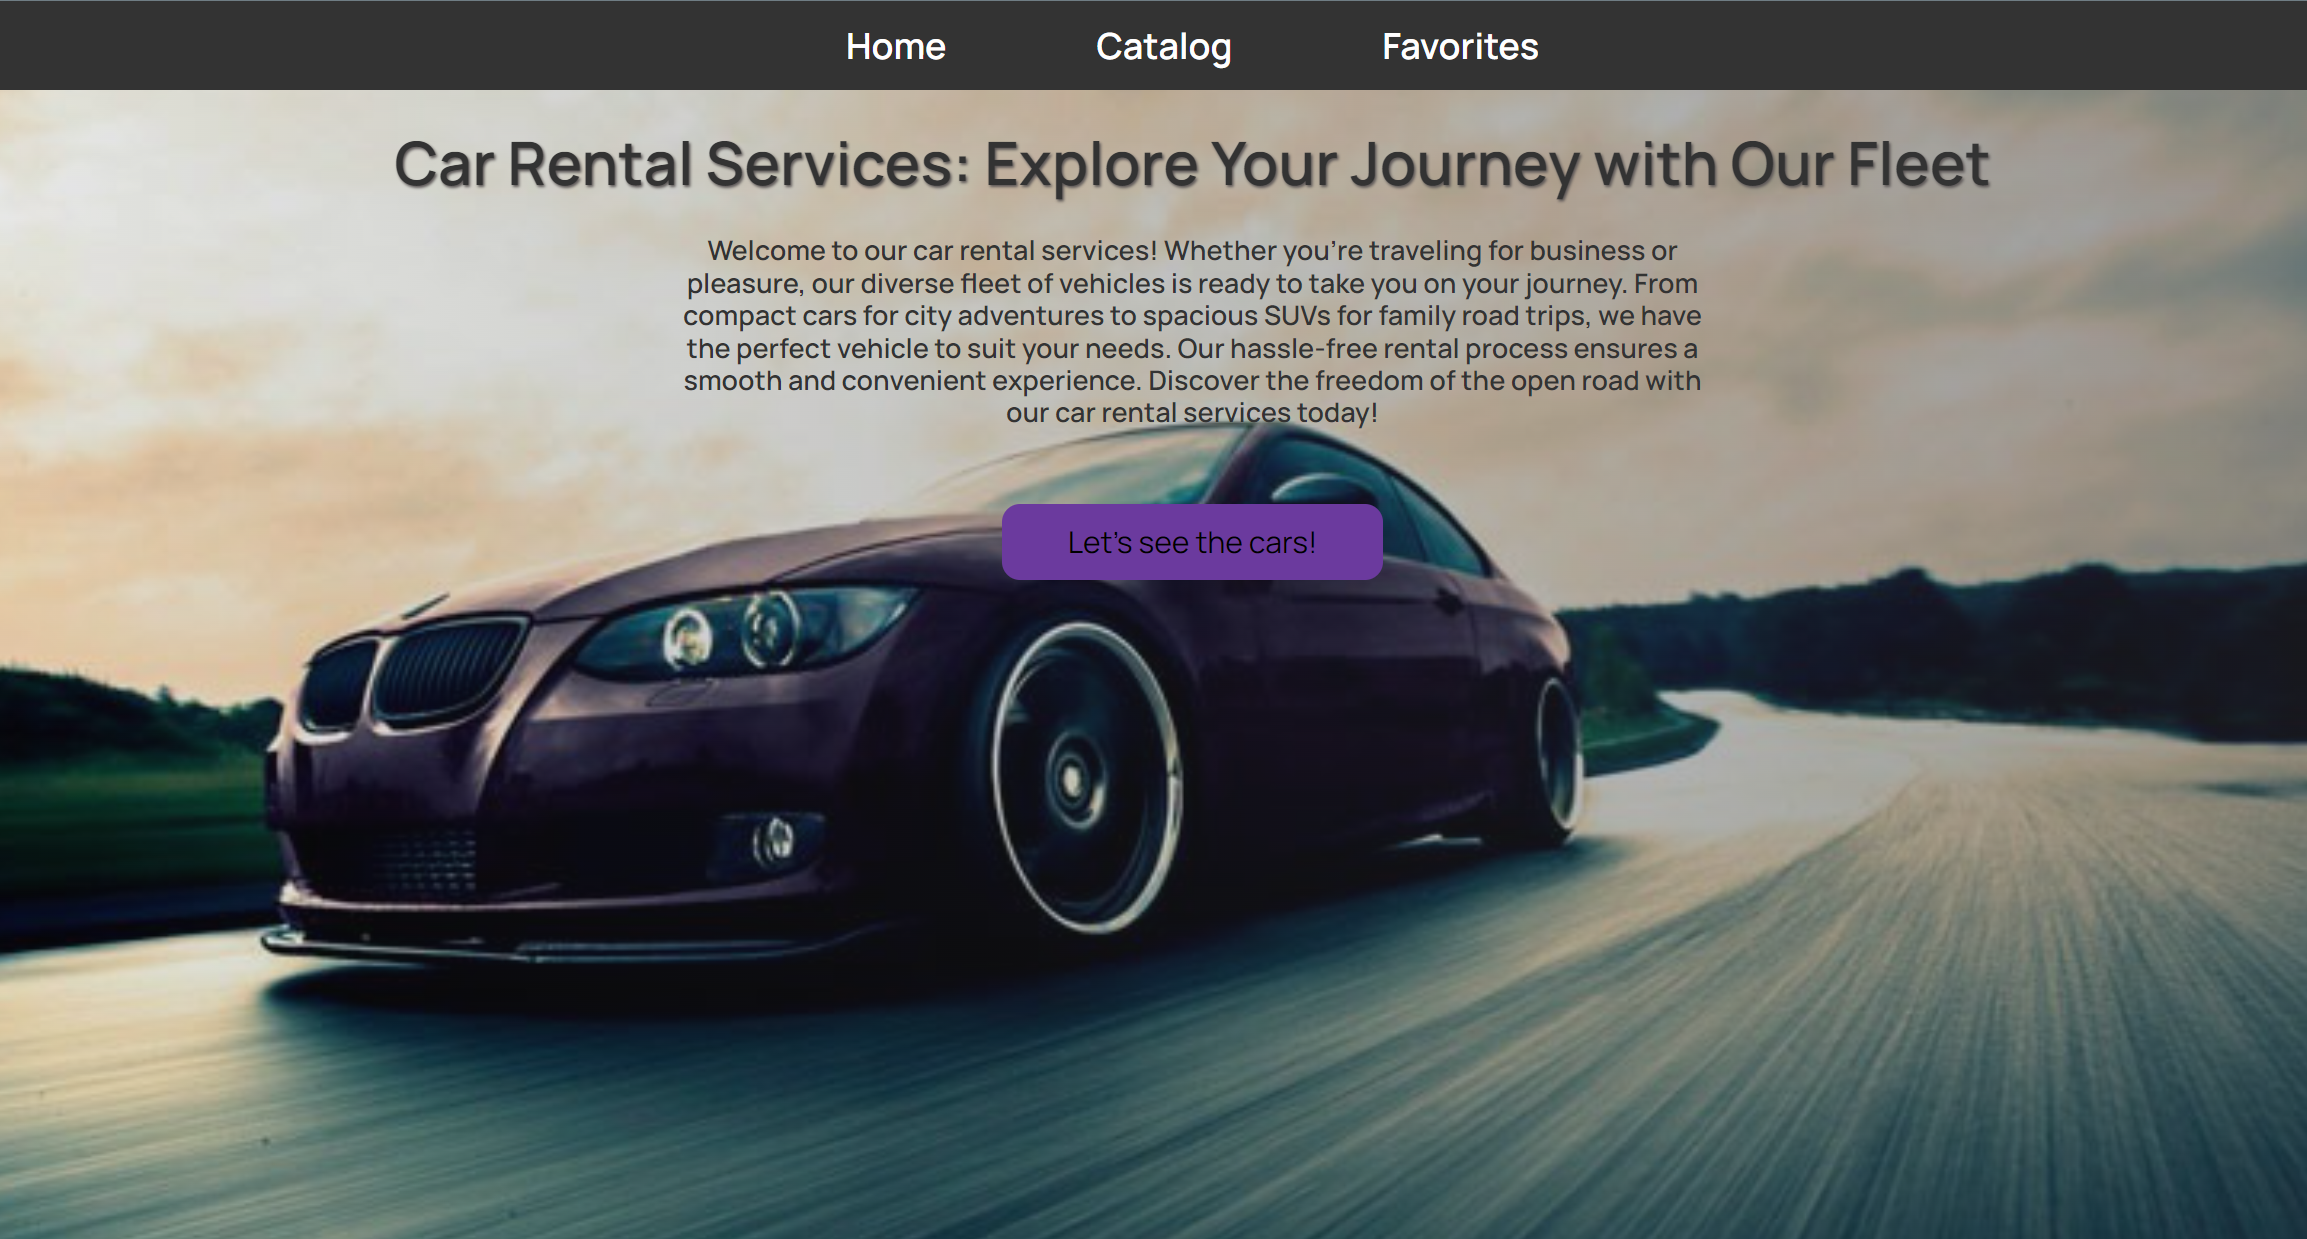
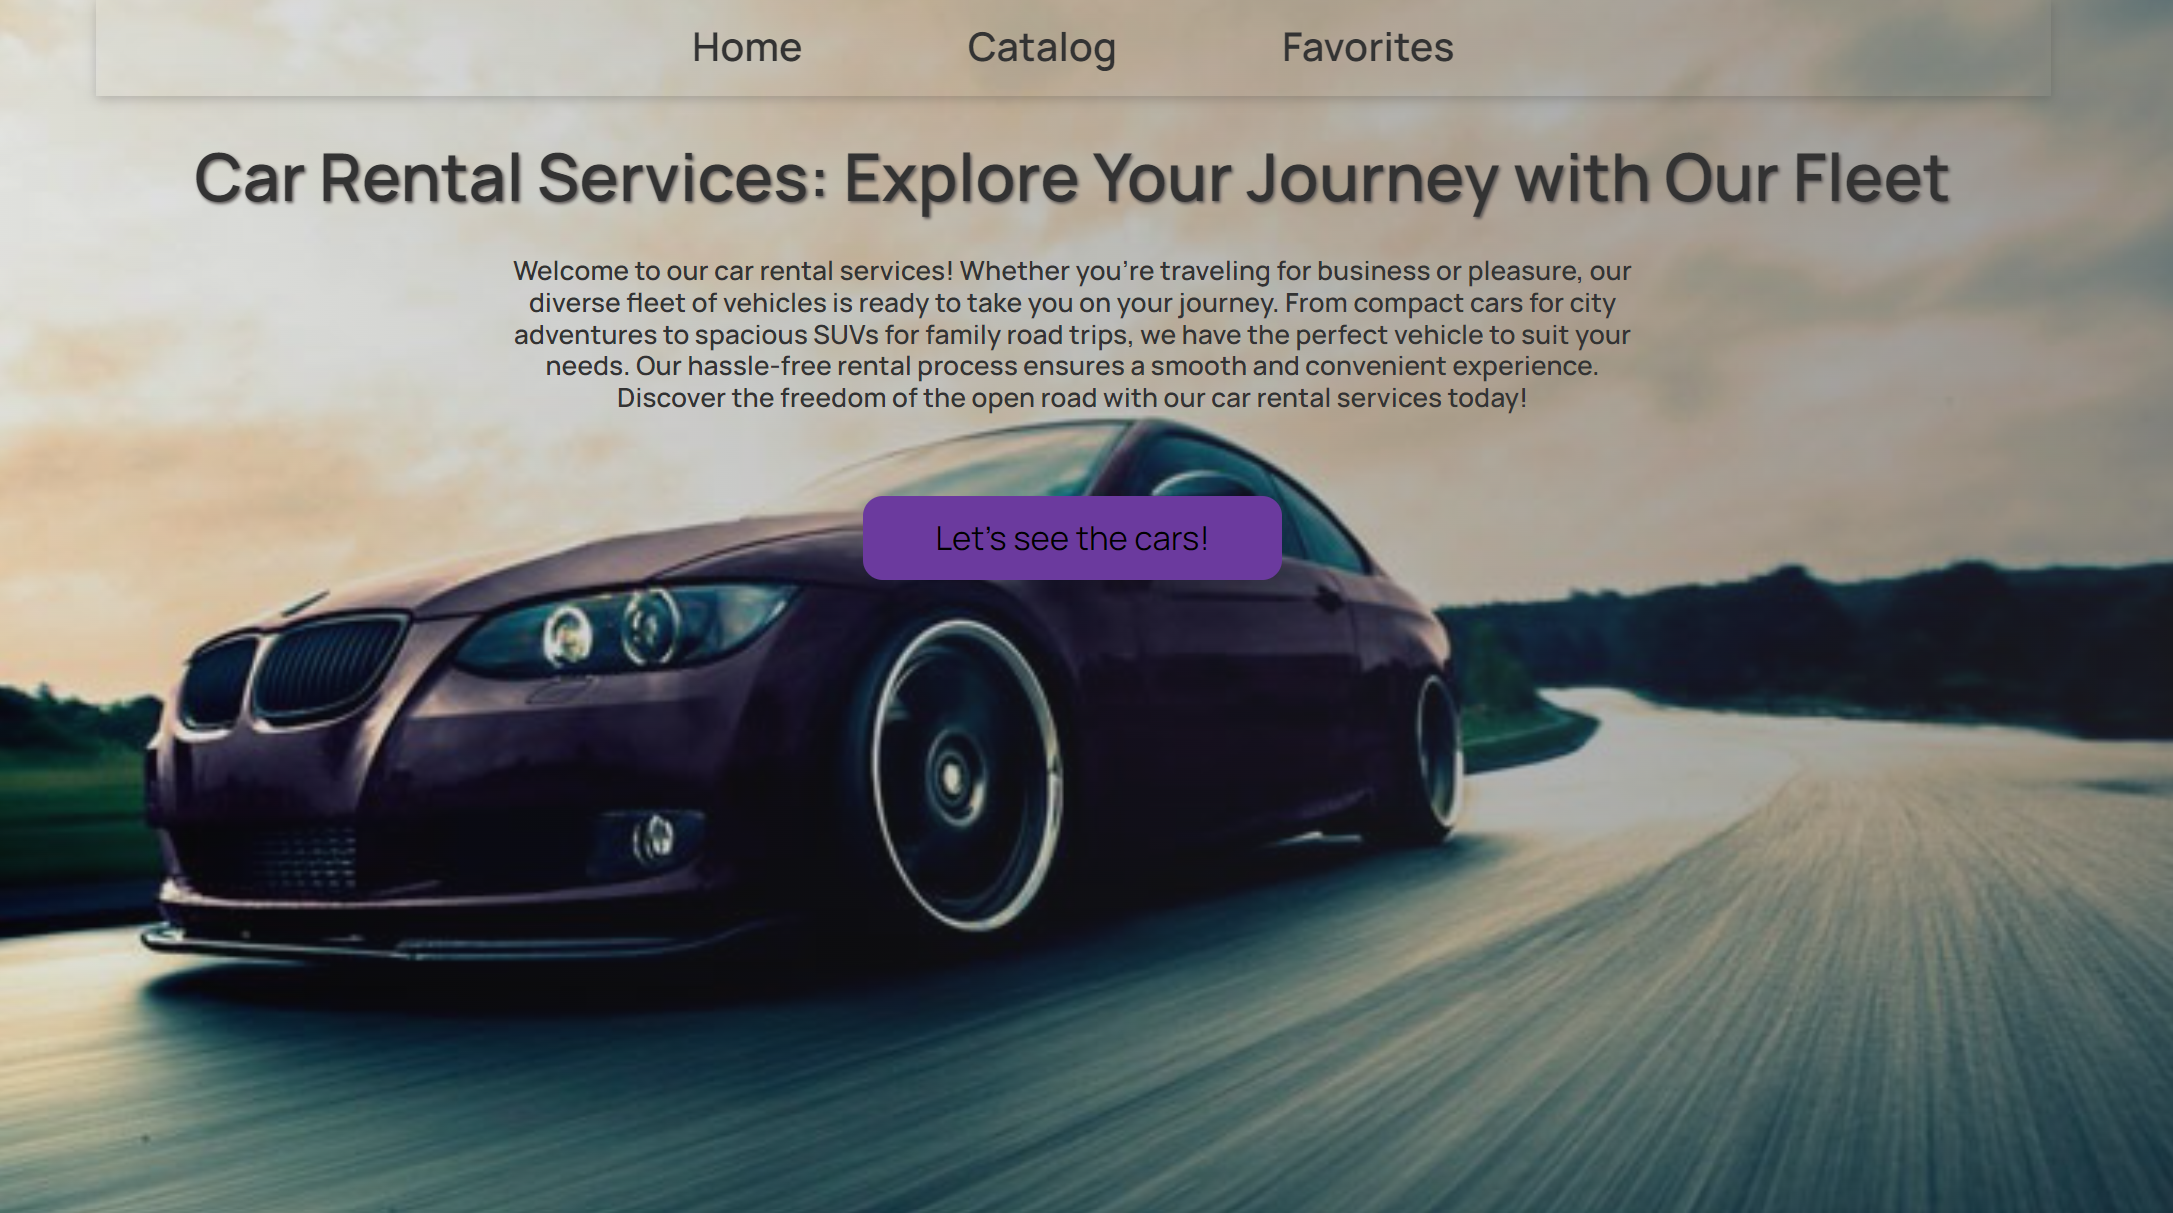
fix home page style

diff --git a/src/pages/Home/Home.styled.jsx b/src/pages/Home/Home.styled.jsx
@@ -19,7 +19,7 @@ export const Hero = styled.div`
  
   background-position: center;
   width: 100%;
-  height:calc(100vh - 60px);
+  height:100vh;
 `;
   
 export const HeroTitle = styled.h1`

diff --git a/README.md b/README.md
@@ -1,23 +1,25 @@
-Car Rental Service Application
+<span style="font-size: 32px;">Car Rental Service</span>Car Rental Service
+
+**Car Rental Service Application**
 Welcome to the Car Rental Service Application! Our platform provides a seamless experience for renting cars in Ukraine. Below, you'll find descriptions of the three main sections of our application, each designed to make your car rental experience easy and enjoyable.
 
-Home Page
+**Home Page**
 Overview: The home page is your gateway to the world of car rentals. Our website is designed with your convenience in mind, allowing you to access information about our offerings effortlessly.
 
 Style and Design: Our website features a sleek and modern design that is both visually appealing and user-friendly. The use of  intuitive navigation ensures that you'll have a pleasant browsing experience.
 
-Car Catalog
+**Car Catalog**
 Explore Our Fleet: Our car catalog is the heart of our application, featuring a wide range of vehicles with varying specifications. You can easily filter and find the perfect car for your needs.
 
 Visual Presentation: You can click on a car to view more information, including rental options, specifications, and user ratings.
 
-Favorite Listings
+**Favorite Listings**
 Your Saved Listings: This section allows you to save your favorite car listings for easy access later. If you find a car you love but aren't ready to book, simply add it to your favorites.
 
 Convenient Organization: Your saved listings are neatly organized, making it simple to compare and decide on the perfect car for your upcoming rental.
 
 Effortless Experience: Our user-friendly interface ensures that managing your favorite listings is hassle-free, allowing you to focus on planning your next adventure.
 
-Thank you for choosing us as your car rental partner. Happy exploring!
+__Thank you for choosing us as your car rental partner. Happy exploring!__
 
 ![Скриншот приложения](./src/image/Welcom_Cars_Service.png)
